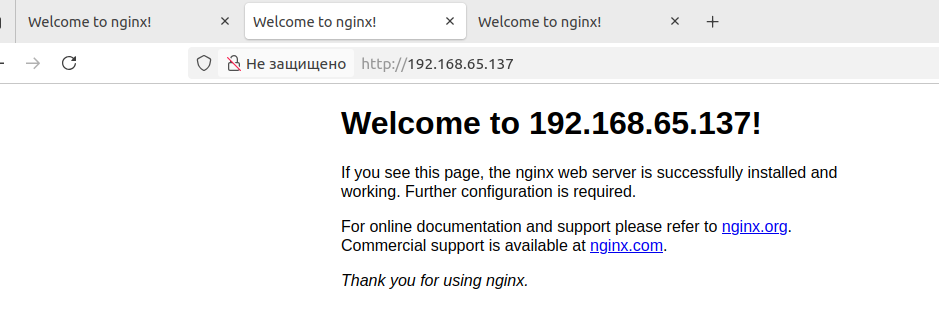
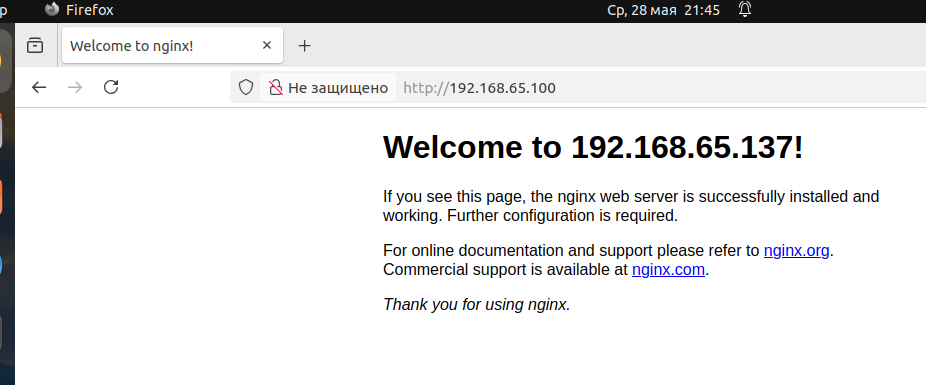
master 6 task 2

Changed region(s): [[0.0, 0.0, 1.0, 1.0], [0.3629, 0.4923, 0.9676, 0.8923], [0.3629, 0.3385, 0.8769, 0.4308]]

diff --git a/files/index.nginx-debian.html b/files/index.nginx-debian.html
@@ -1,0 +1,25 @@
+<!DOCTYPE html>
+<html>
+<head>
+<title>Welcome to nginx!</title>
+<style>
+    body {
+        width: 35em;
+        margin: 0 auto;
+        font-family: Tahoma, Verdana, Arial, sans-serif;
+    }
+</style>
+</head>
+<body>
+<h1>Welcome to 192.168.65.137!</h1>
+<p>If you see this page, the nginx web server is successfully installed and
+working. Further configuration is required.</p>
+
+<p>For online documentation and support please refer to
+<a href="http://nginx.org/">nginx.org</a>.<br/>
+Commercial support is available at
+<a href="http://nginx.com/">nginx.com</a>.</p>
+
+<p><em>Thank you for using nginx.</em></p>
+</body>
+</html>

diff --git a/README.md b/README.md
@@ -59,32 +59,39 @@
 <img src = "img/2-1.png" width = 60%>     
 <img src = "img/2-2.png" width = 60%> 
 <img src = "img/2-3.png" width = 60%>     
-<img src = "img/2-3.png" width = 60%>  
+<img src = "img/2-4.png" width = 60%>  
+<img src = "img/2-5.png" width = 60%>     
+<img src = "img/2-6.png" width = 60%> 
 
 2. Установим nginx  на обеих ВМ, изменим текст страницы по умолчанию, чтобы было понятно к какому серверу получен доступ (ip).  
-<img src = "img/2-5.png" width = 60%>     
-<img src = "img/2-6.png" width = 60%>
-Проверим доступность серверов nginx по всем 3-ем адресам.  
-<img src = "img/2-7.png" width = 60%>     
-<img src = "img/2-8.png" width = 60%> 
-<img src = "img/2-9.png" width = 60%>
+<img src = "img/2-7.png" width = 60%>
 
-3. Создадим bash-скрипт, укажем его в конфигурационном файле Keepalived. После рестарта выявлено, что скрипт не запускается, так как файл не исполняемый, а ползователт не назначен.  
+3. Проверим доступность серверов nginx по всем 3-ем адресам.  
+<img src = "img/2-8.png" width = 60%>     
+<img src = "img/2-9.png" width = 60%> 
 <img src = "img/2-10.png" width = 60%>
-Дополним файл блоком глобальных настроек с указанием пользователя скрипта, а также помменяем права в скрипте.
+
+4. Создадим bash-скрипт, укажем его в конфигурационном файле Keepalived. После рестарта выявлено, что скрипт не запускается, так как файл не исполняемый, а ползователь не назначен.    
 <img src = "img/2-11.png" width = 60%>
-Перезапустим Keepalived на обеих ВМ, проверим статус.
-<img src = "img/2-12.png" width = 60%> 
-<img src = "img/2-13.png" width = 60%>
 
-4. Обратимся  к серверам nginx по всем 3-ем адресам, а затем для проверки удалим index.html с ВМ-Master
+5. Дополним конфигурационный файл блоком глобальных настроек с указанием пользователя скрипта, а также помменяем права на скрипт.    
+<img src = "img/2-12.png" width = 60%>
+
+6. Перезапустим Keepalived на обеих ВМ, проверим статус.
+<img src = "img/2-13.png" width = 60%> 
 <img src = "img/2-14.png" width = 60%>
-<img src = "img/2-15.png" width = 60%> 
-<img src = "img/2-16.png" width = 60%><img src = "img/2-12.png" width = 60%> 
-<img src = "img/2-17.png" width = 60%>
 
-5. Использованы следующие файлы конфигурации и скрипта.
-[конфигурационный файл](files/keepalived.conf)
+7. Удалим  файл index.nginx-debian.html с ВМ-Master (192.168.65.137), проверим работу скрипта, запустив его через терминал  
+<img src = "img/2-15.png" width = 60%>
+<img src = "img/2-16.png" width = 60%>
+<img src = "img/2-17.png" width = 60%> 
+
+8. Проверим перенос виртуалтьного IP (192.168.65.100) на другой сервер (192.168.65.136)  
+<img src = "img/2-18.png" width = 60%> 
+
+9. Использованы следующие файлы стартовой страницы сервера, конфигурации и скрипта.  
+[страница nginx](files/index.nginx-debian.html)  
+[конфигурационный файл](files/keepalived.conf)  
 [скрипт](files/ppcheck.sh)
 
 ---
